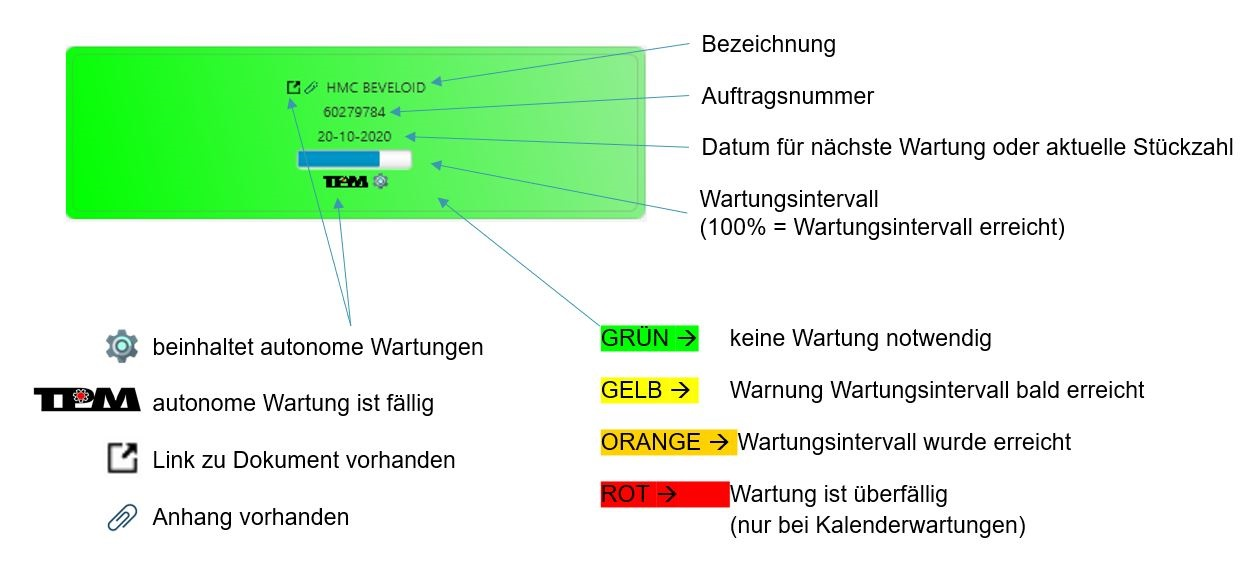
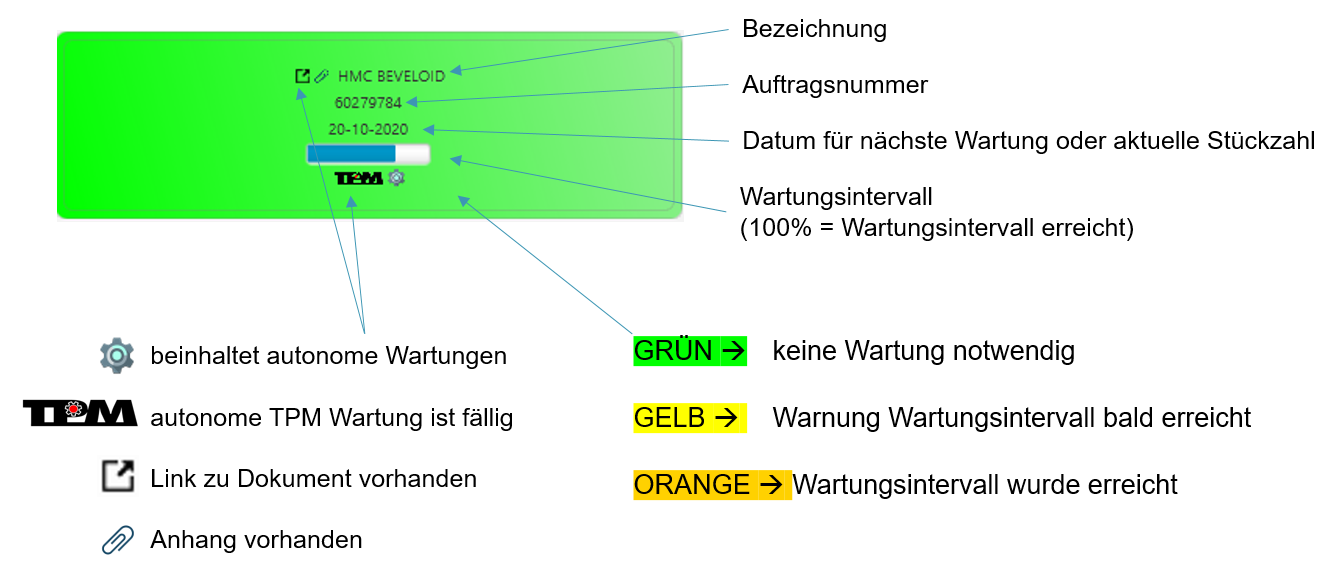
.......

diff --git a/MaintenanceManager/src/com/maintenance/view/anlage/AnlagePanelController.java b/MaintenanceManager/src/com/maintenance/view/anlage/AnlagePanelController.java
@@ -246,7 +246,7 @@ public class AnlagePanelController implements Initializable {
 				else {
 					try {
 
-						System.out.println(anlage.getWartungsplanLink());
+					
 
 						if (anlage.getWartungsplanLink().contains("http"))
 							try {
@@ -371,7 +371,7 @@ public class AnlagePanelController implements Initializable {
 				tpmImage.setVisible(true);
 			else
 				tpmImage.setVisible(false);
-			
+
 			if (ProzentCalc.isRobotStationFehler(stationen))
 				robotImage.setVisible(true);
 			else
@@ -426,7 +426,7 @@ public class AnlagePanelController implements Initializable {
 				tpmImage.setVisible(true);
 			else
 				tpmImage.setVisible(false);
-			
+
 			if (ProzentCalc.isRobotStationFehler(stationen))
 				robotImage.setVisible(true);
 			else
@@ -465,11 +465,7 @@ public class AnlagePanelController implements Initializable {
 		// Kalender Wartung
 		if (cal != null && anlage.getWartungArt() != EWartungArt.TIME_INTERVALL.ordinal()) {
 			nextWartungDate = cal.getDate();
-
-			Calendar calwartungUeberfaellig = Calendar.getInstance();
-			calwartungUeberfaellig.setTime(cal.getDate());
-			calwartungUeberfaellig.add(Calendar.DAY_OF_YEAR, anlage.getWartungUeberfaellig());
-
+			
 			if (anlage.getLastWartungDate() != null)
 				prozent = ProzentCalc.calcProzent(anlage.getLastWartungDate().getTime(), nextWartungDate.getTime());
 			else
@@ -486,12 +482,8 @@ public class AnlagePanelController implements Initializable {
 			else if (prozent >= anlage.getWartungStueckWarnung() && prozent < anlage.getWartungStueckFehler())
 				innerPane.setId("pane-yellow");
 
-			else if (prozent >= anlage.getWartungStueckFehler()
-					&& Calendar.getInstance().before(calwartungUeberfaellig))
+			else if (prozent >= anlage.getWartungStueckFehler())
 				innerPane.setId("pane-orange");
-
-			else if (calwartungUeberfaellig.before(Calendar.getInstance()))
-				innerPane.setId("pane-red");
 
 		}
 
@@ -643,7 +635,7 @@ public class AnlagePanelController implements Initializable {
 				anhangImage.setVisible(true);
 			else
 				anhangImage.setVisible(false);
-			
+
 			if (anlage.getLastWartungDate() != null)
 				cal = Service.getInstance().getNextCalendarWartung(anlage.getId(), anlage.getLastWartungDate());
 			else
@@ -651,7 +643,6 @@ public class AnlagePanelController implements Initializable {
 
 			stationen = Service.getInstance().getStationenFromAnlage(anlage);
 
-			
 		}
 	}
 

diff --git a/MaintenanceManager/src/com/maintenance/view/station/StationOverviewController.java b/MaintenanceManager/src/com/maintenance/view/station/StationOverviewController.java
@@ -12,6 +12,7 @@ import com.maintenance.Main;
 import com.maintenance.db.dto.Anlage;
 import com.maintenance.db.dto.Station;
 import com.maintenance.db.service.Service;
+import com.maintenance.util.ApplicationProperties;
 import com.maintenance.util.Constants;
 import com.maintenance.util.DragResizeMod;
 import com.maintenance.view.root.LoginDialog;
@@ -23,6 +24,7 @@ import javafx.fxml.FXMLLoader;
 import javafx.scene.Scene;
 import javafx.scene.control.CheckMenuItem;
 import javafx.scene.control.ScrollPane;
+import javafx.scene.control.Tab;
 import javafx.scene.control.TabPane;
 import javafx.scene.input.KeyCode;
 import javafx.scene.input.KeyEvent;
@@ -55,6 +57,11 @@ public class StationOverviewController {
 	private BorderPane robotPane;
 	@FXML
 	private CheckMenuItem dragResizeCheckMenuItem;
+	
+	@FXML
+	private Tab tpmTab;
+	@FXML
+	private Tab robotTab;
 
 	private Main main;
 
@@ -66,7 +73,7 @@ public class StationOverviewController {
 
 	@FXML
 	public void initialize() {
-
+		
 		dragResizeCheckMenuItem.setOnAction(new EventHandler<ActionEvent>() {
 
 			@Override
@@ -101,6 +108,12 @@ public class StationOverviewController {
 
 		// maintenancePane.getChildren().add(getAnlageOverviewPane(anlage));
 		// tpmPane.getChildren().add(getAnlageOverviewTPMPane(anlage));
+		
+		
+		if (ApplicationProperties.getInstance().getProperty("db_model").equalsIgnoreCase("InspectionManager")) {
+			tabPane.getTabs().remove(tpmTab);
+			tabPane.getTabs().remove(robotTab);		
+		}
 
 		ScrollPane sp = new ScrollPane();
 		sp.setContent(getAnlageOverviewPane(anlage));
@@ -109,13 +122,15 @@ public class StationOverviewController {
 		ScrollPane sp1 = new ScrollPane();
 		sp1.setContent(getAnlageOverviewTPMPane(anlage));
 		tpmPane.setCenter(sp1);
-		
+
 		ScrollPane sp2 = new ScrollPane();
 		sp2.setContent(getAnlageOverviewRobotPane(anlage));
 		robotPane.setCenter(sp2);
 
 		// maintenancePane.setCenter(getAnlageOverviewPane(anlage));
 		// tpmPane.setCenter(getAnlageOverviewTPMPane(anlage));
+
+		
 
 	}
 
@@ -241,7 +256,7 @@ public class StationOverviewController {
 		// sp.setContent(overviewPane);
 		return overviewPane;
 	}
-	
+
 	private AnchorPane getAnlageOverviewRobotPane(Anlage anlage) {
 
 		// ScrollPane sp = new ScrollPane();

diff --git a/MaintenanceManager/src/com/maintenance/view/anlage/AnlageDataController.java b/MaintenanceManager/src/com/maintenance/view/anlage/AnlageDataController.java
@@ -105,9 +105,6 @@ public class AnlageDataController {
 	public Label nextWartungDate;
 
 	@FXML
-	public TextField wartungUberfaelligField;
-
-	@FXML
 	private GridPane stueckzahlGridPane;
 	@FXML
 	private GridPane dateGridPane;
@@ -189,8 +186,6 @@ public class AnlageDataController {
 
 				else {
 					try {
-
-						System.out.println(wartungsPlanField.getText());
 
 						if (wartungsPlanField.getText().contains("http"))
 							try {
@@ -344,7 +339,6 @@ public class AnlageDataController {
 
 			wartungDateIntervallComboBox.getSelectionModel().select(data.getWartungDateIntervall());
 			warnungDateWarnungComboBox.getSelectionModel().select(data.getWartungDateWarnung());
-			wartungUberfaelligField.setText(String.valueOf(data.getWartungUeberfaellig()));
 
 			createDateCal = Calendar.getInstance();
 			createDateCal.setTime(data.getCreateDate());
@@ -406,7 +400,7 @@ public class AnlageDataController {
 		warnungDateUnitComboBox.getSelectionModel().clearSelection();
 		wartungDateIntervallComboBox.getSelectionModel().clearSelection();
 		warnungDateWarnungComboBox.getSelectionModel().clearSelection();
-		wartungUberfaelligField.setText("10");
+	
 
 		nextWartungDate.setText("");
 

diff --git a/MaintenanceManager/src/com/maintenance/util/ProzentCalc.java b/MaintenanceManager/src/com/maintenance/util/ProzentCalc.java
@@ -125,8 +125,12 @@ public class ProzentCalc {
 
 		long d = nextWartung - act;
 
+		float d2 = d;
+		float diff2 = diff;
+		
+
 		if (diff != 0)
-			prozent = 100 * d / diff;
+			prozent = 100 * d2 / diff2;
 
 		if (prozent > 100.0f)
 			prozent = 100.0f;
@@ -134,7 +138,7 @@ public class ProzentCalc {
 		if (prozent < 0.0f)
 			prozent = 0.0f;
 
-		return Math.round(100.0 - prozent);
+		return Math.round((100 - prozent) * 100) / 100.0f;
 
 	}
 
@@ -516,7 +520,7 @@ public class ProzentCalc {
 		return false;
 
 	}
-	
+
 	public static boolean isRobotStationFehler(List<Station> stationen) {
 
 		for (Station station : stationen) {

diff --git a/MaintenanceManager/src/com/maintenance/view/anlage/AnlageEditController.java b/MaintenanceManager/src/com/maintenance/view/anlage/AnlageEditController.java
@@ -109,7 +109,6 @@ public class AnlageEditController {
 			data.setWartungDateWarnung(
 					anlageDataController.warnungDateWarnungComboBox.getSelectionModel().getSelectedItem());
 		}
-		data.setWartungUeberfaellig(Integer.parseInt(anlageDataController.wartungUberfaelligField.getText()));
 
 		if (data.getId() == 0)
 			insert();

diff --git a/MaintenanceManager/src/com/maintenance/Main.java b/MaintenanceManager/src/com/maintenance/Main.java
@@ -75,7 +75,7 @@ public class Main extends Application {
 
 	public final static String VERSION_HAUPT = "1";
 	public final static String VERSION_NEBEN = "0";
-	public final static String REVISION = "21";
+	public final static String REVISION = "22";
 
 	// Java Entwicklungsversion
 	public final static String JDK = "1.8.0_152";
